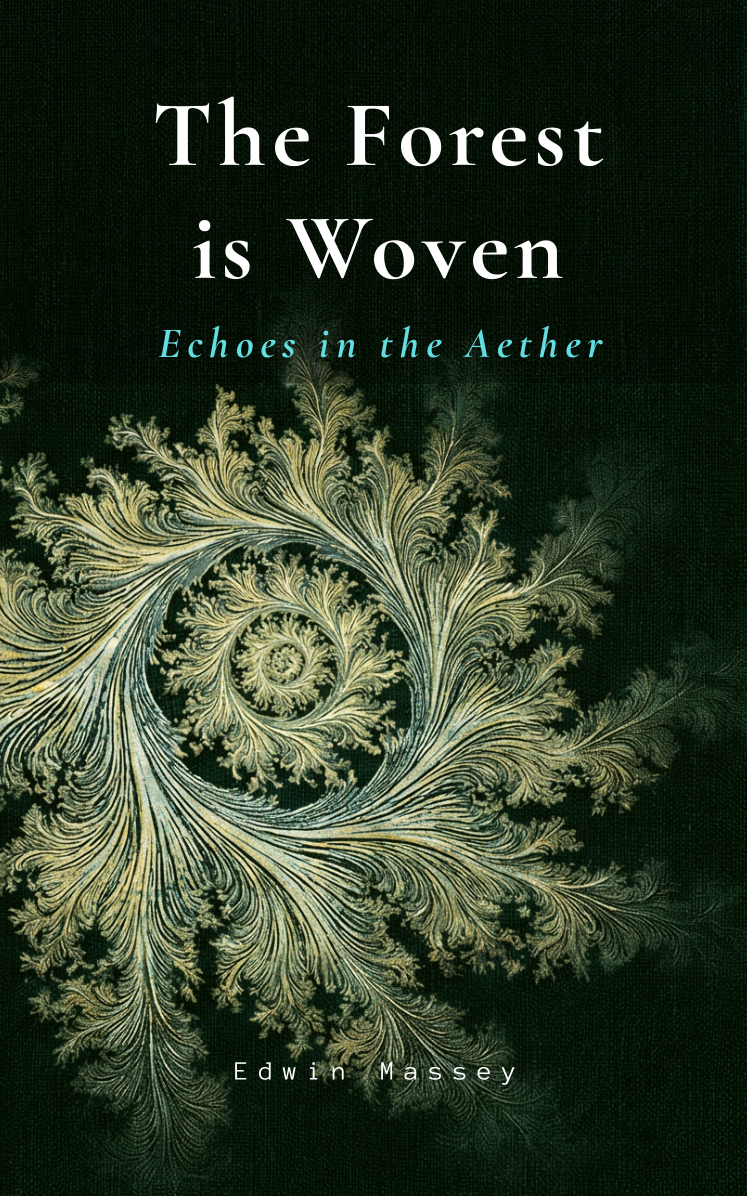
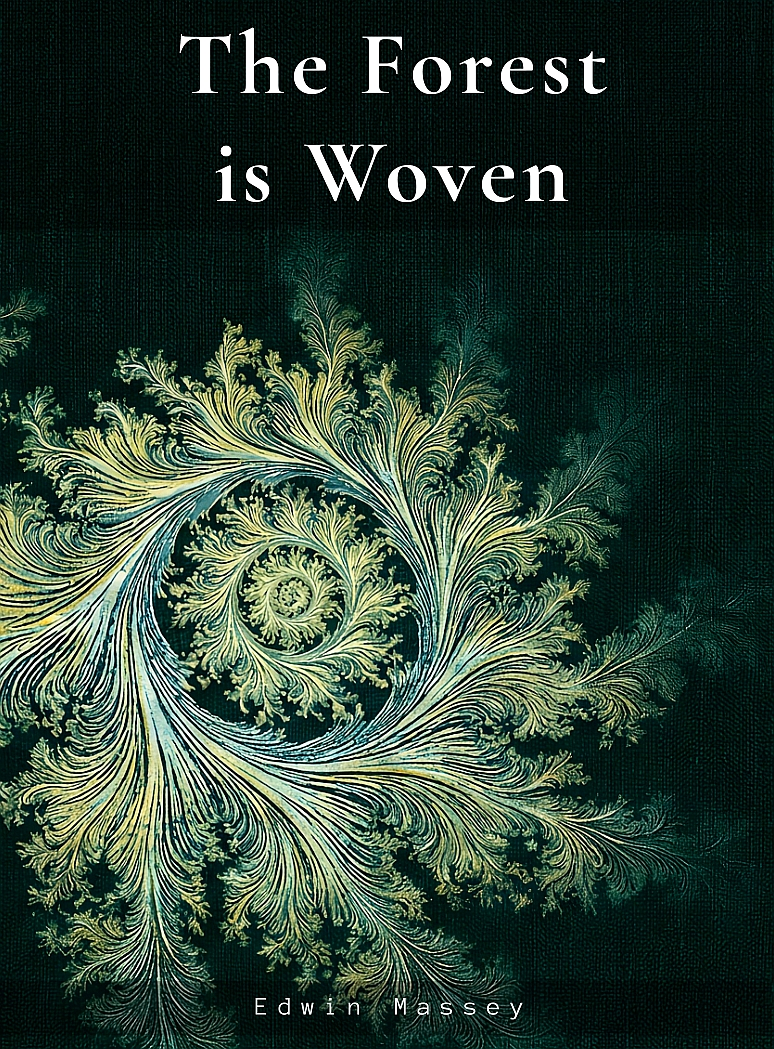
update

diff --git a/index.html b/index.html
@@ -272,10 +272,10 @@
       <div class="eyebrow">Edwin Massey</div>
 
       <h1>The Forest is Woven</h1>
-      <h2 class="subtitle">Echoes in the Aether</h2>
+     
 
       <p class="tagline">
-        A novel about perception treated as pathology, and what it costs to keep trusting your own perspective.
+        A novel about perception, control, and resistance, and what it costs to keep trusting your own perspective.
       </p>
 
       <div class="rule"></div>
